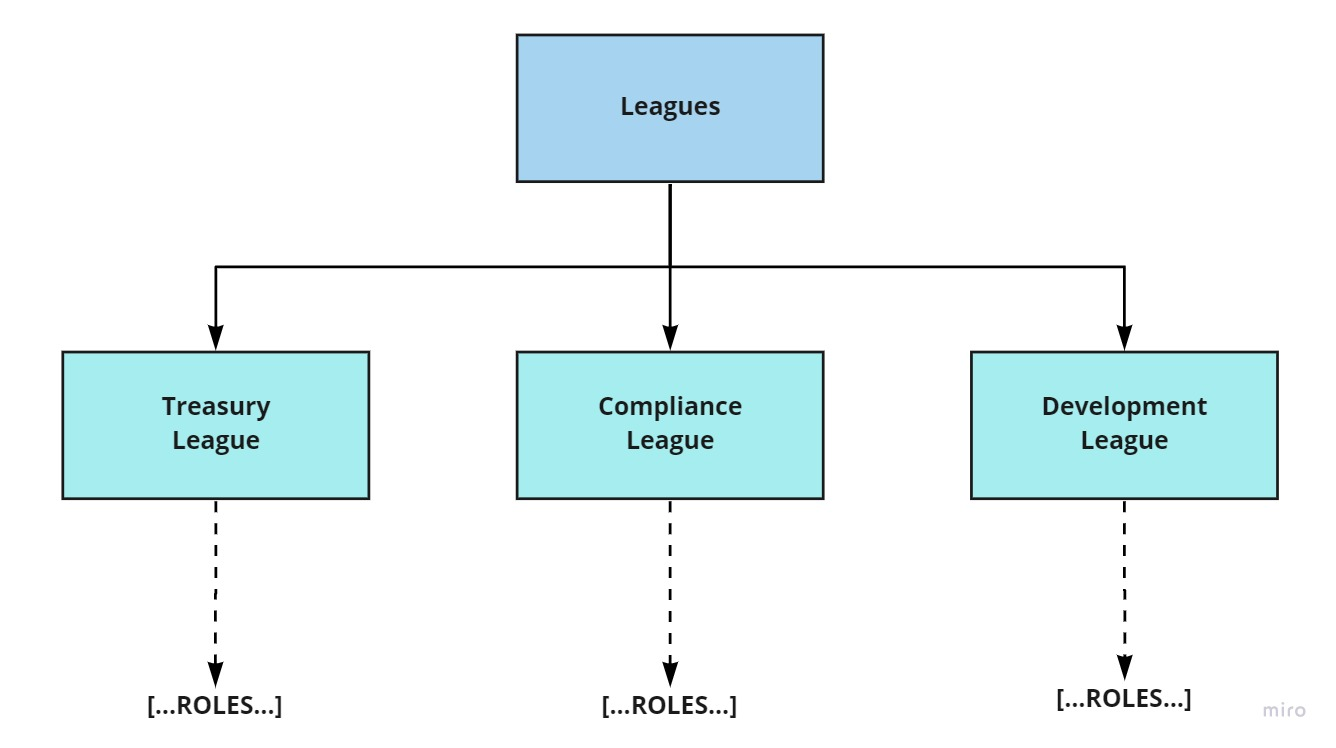
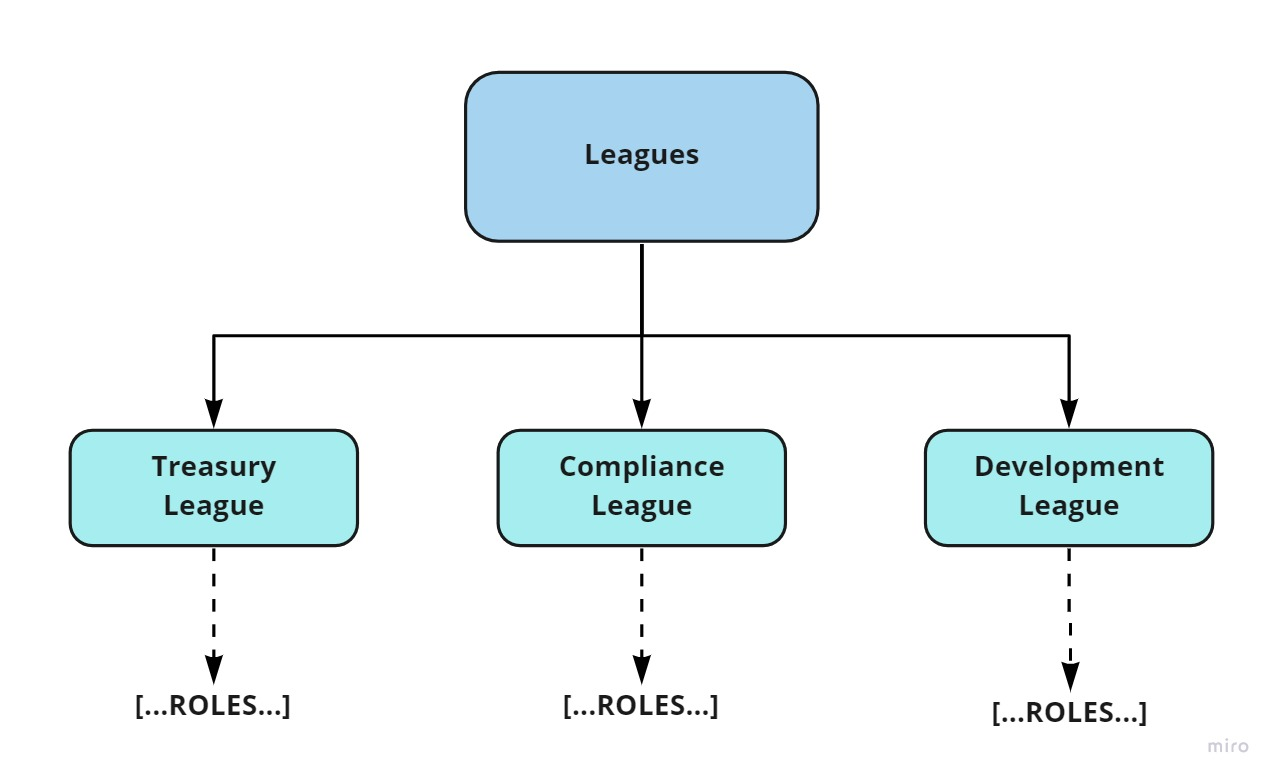
update readme images

diff --git a/README.md b/README.md
@@ -66,7 +66,7 @@ DeFund it’s divided into three main components that interact with each other:
 * Governance.
 
 <div style="text-align:center">
-    <img src="./documentation/img/DeFund_structure.jpg" />
+    <img src="./documentation/img/DeFund_structure.jpg" width=80% />
 </div>
 
 Each component is represented by one or more Smart Contracts which manage all roles and interactions between the different parts.
@@ -82,7 +82,7 @@ Leagues are the DeFund implementation, monitoring, and regulatory body. Their pr
 Each League has a specific purpose that is directly related to a single company area.
 
 <div style="text-align:center">
-    <img src="./documentation/img/DeFund_leagues.jpg" />
+    <img src="./documentation/img/DeFund_leagues.jpg" width=70% />
 </div>
 
 There are three different types of Leagues: 
@@ -120,7 +120,7 @@ Proposals are the enhancements and modifications requested by DeFund's members.
 There are four different types of proposals, each one created with the aim of providing the most appriopriate and clear information about the specific motion:
 
 <div style="text-align:center">
-    <img src="./documentation/img/DeFund_proposals_creation.jpg" />
+    <img src="./documentation/img/DeFund_proposals_creation.jpg" width=70% />
 </div>
 
 * Vision Proposals
@@ -133,7 +133,7 @@ Each proposal type represents a current state variation request on a specific ar
 ### Voting
 
 <div style="text-align:center">
-    <img src="./documentation/img/DeFund_voting.jpg" />
+    <img src="./documentation/img/DeFund_voting.jpg" width=90% />
 </div>
 
 ## Token
